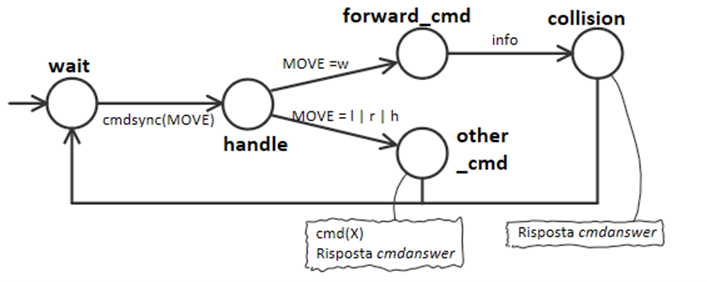
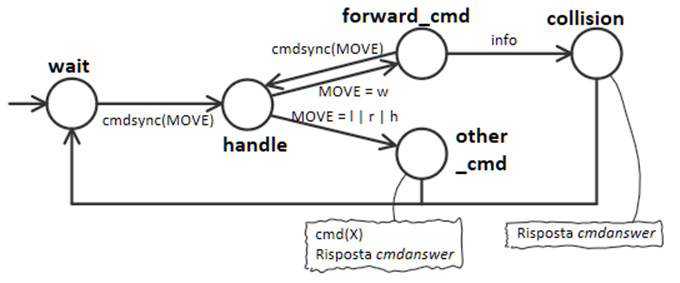
minor changes

Changed region(s): [[0.0309, 0.0284, 0.9882, 0.9645]]

diff --git a/sprint1/grid_or_boundary_analysis.html b/sprint1/grid_or_boundary_analysis.html
@@ -121,7 +121,7 @@ h6{
             Se invece, mentre si procede da <b>INDOOR</b> a <b>HOME</b> arriva un comando di nuova destinazione per la quale conviene tornare indietro (nel caso corrente o <b>INDOOR</b> o <b>PLASTICBOX</b>), allora si fa una sorta di 
             inversione ad U (stato <i> u_turn_clk</i>) per tornare verso la <b>Position</b> dalla quale si era partiti.</p>
         <p>E' pur sempre possibile una implementazione più sintetica e compatta se manteniamo la posizione corrente in una variabile:</p>
-        <img class="centerimg" style="max-width: 1100px;" src="docs/_images/mover_option2_compact_state_machine.png"/>
+        <img class="centerimg" style="max-width: 1100px;" src="docs/_images/mover_option2_compact_state_machine_1.png"/>
         <p>Anche in questo caso verifichiamo se, mentre si sta procedendo in avanti, arriva una nuova destinazione. Se non arriva si procede fino al raggiungimento del sito. Se invece arriva e risulta più 
             vantaggioso cambiare direzione, si fa una inversione ad U per tornare verso la <b>Position</b> dalla quale si era partiti.</p>    
     

diff --git a/sprint1/QakSprint1/test/testSprint1/TestSprint1_mover.kt b/sprint1/QakSprint1/test/testSprint1/TestSprint1_mover.kt
@@ -113,11 +113,13 @@ internal class TestSprint1_mover {
 
     @Test
     fun dummy() {
-        while(true){
-            println(to!!.getCurrentCoapState("mover"))
-            println(to!!.getCurrentCoapState("moveruturn"))
-            println(to!!.getCurrentCoapState("basicrobotwrapper"))
-            CommUtils.delay(1000)
+        assertTimeoutPreemptively<Unit>(Duration.ofSeconds(10)) {
+            while (true) {
+                println(to!!.getCurrentCoapState("mover"))
+                println(to!!.getCurrentCoapState("moveruturn"))
+                println(to!!.getCurrentCoapState("basicrobotwrapper"))
+                CommUtils.delay(1000)
+            }
         }
         Assert.assertTrue(true)
         /*to!!.debugSetHistory(

diff --git a/sprint1/QakSprint1/src/it/unibo/moveruturn/Moveruturn.kt b/sprint1/QakSprint1/src/it/unibo/moveruturn/Moveruturn.kt
@@ -29,7 +29,7 @@ class Moveruturn ( name: String, scope: CoroutineScope  ) : ActorBasicFsm( name,
 				state("req_halt") { //this:State
 					action { //it:State
 						println("$name in ${currentState.stateName} | $currentMsg")
-						if( checkMsgContent( Term.createTerm("moveruturn(_)"), Term.createTerm("moveruturn(DIR)"), 
+						if( checkMsgContent( Term.createTerm("moveruturn(CURRDIR)"), Term.createTerm("moveruturn(DIR)"), 
 						                        currentMsg.msgContent()) ) { //set msgArgList
 								 ENDDIR = when(payloadArg(0)){
 												"ACLK" -> "CLK"
